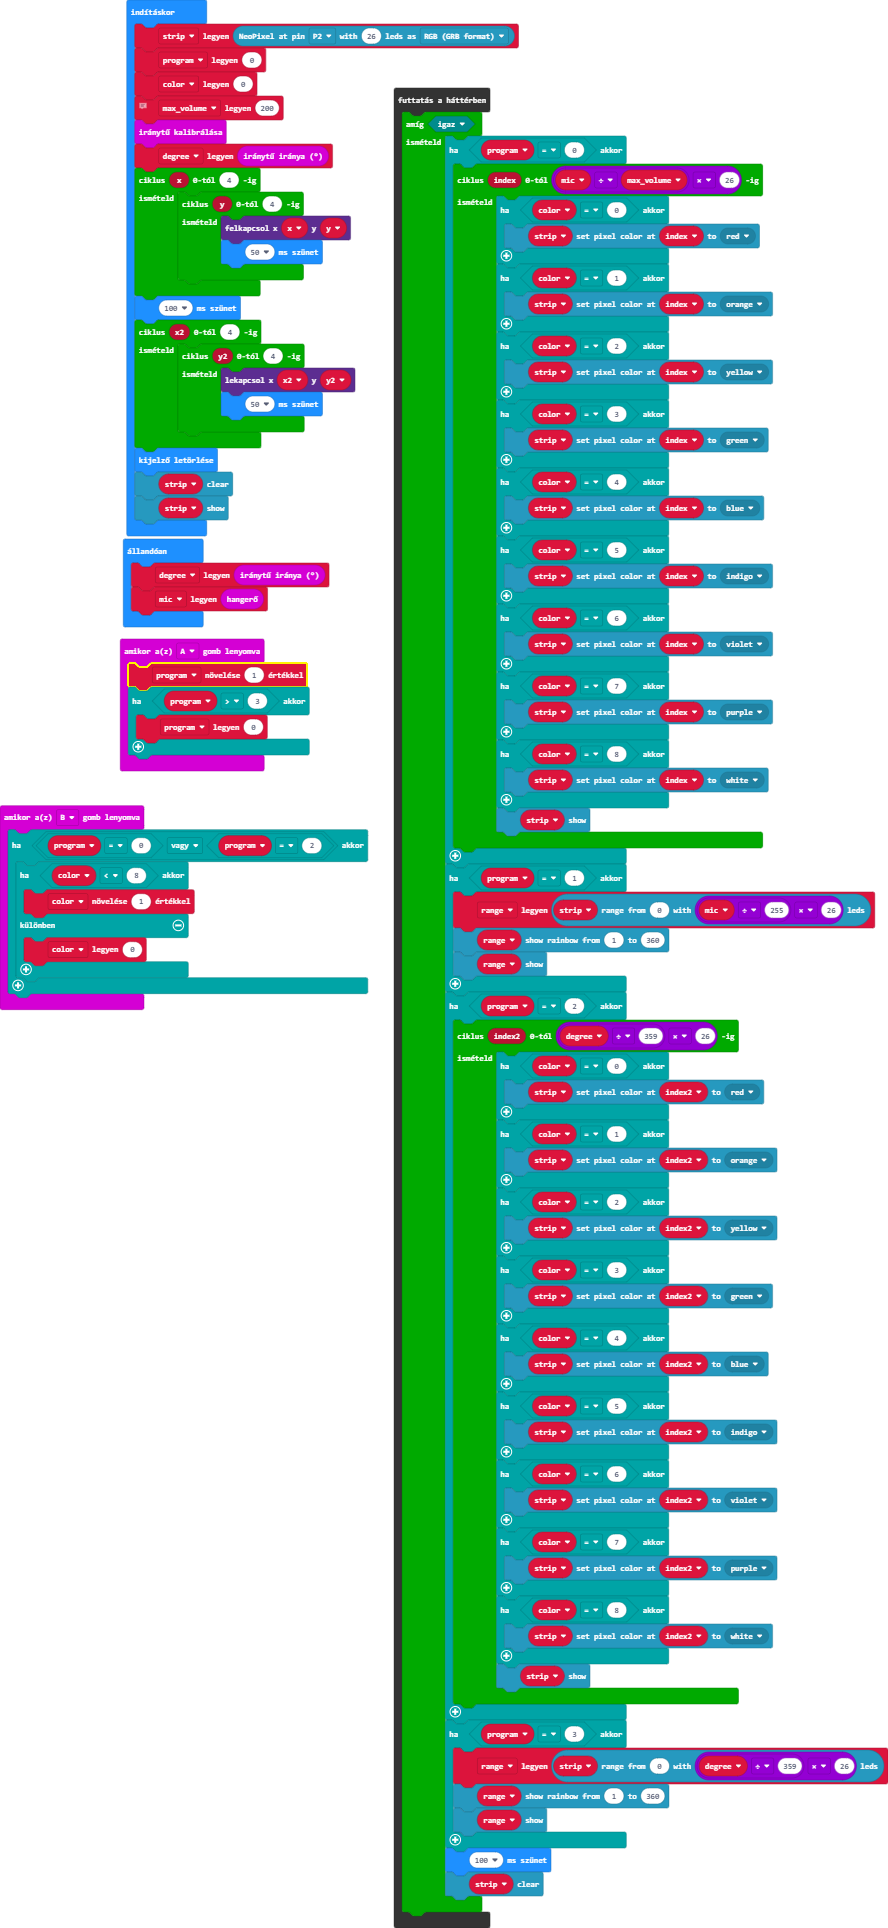
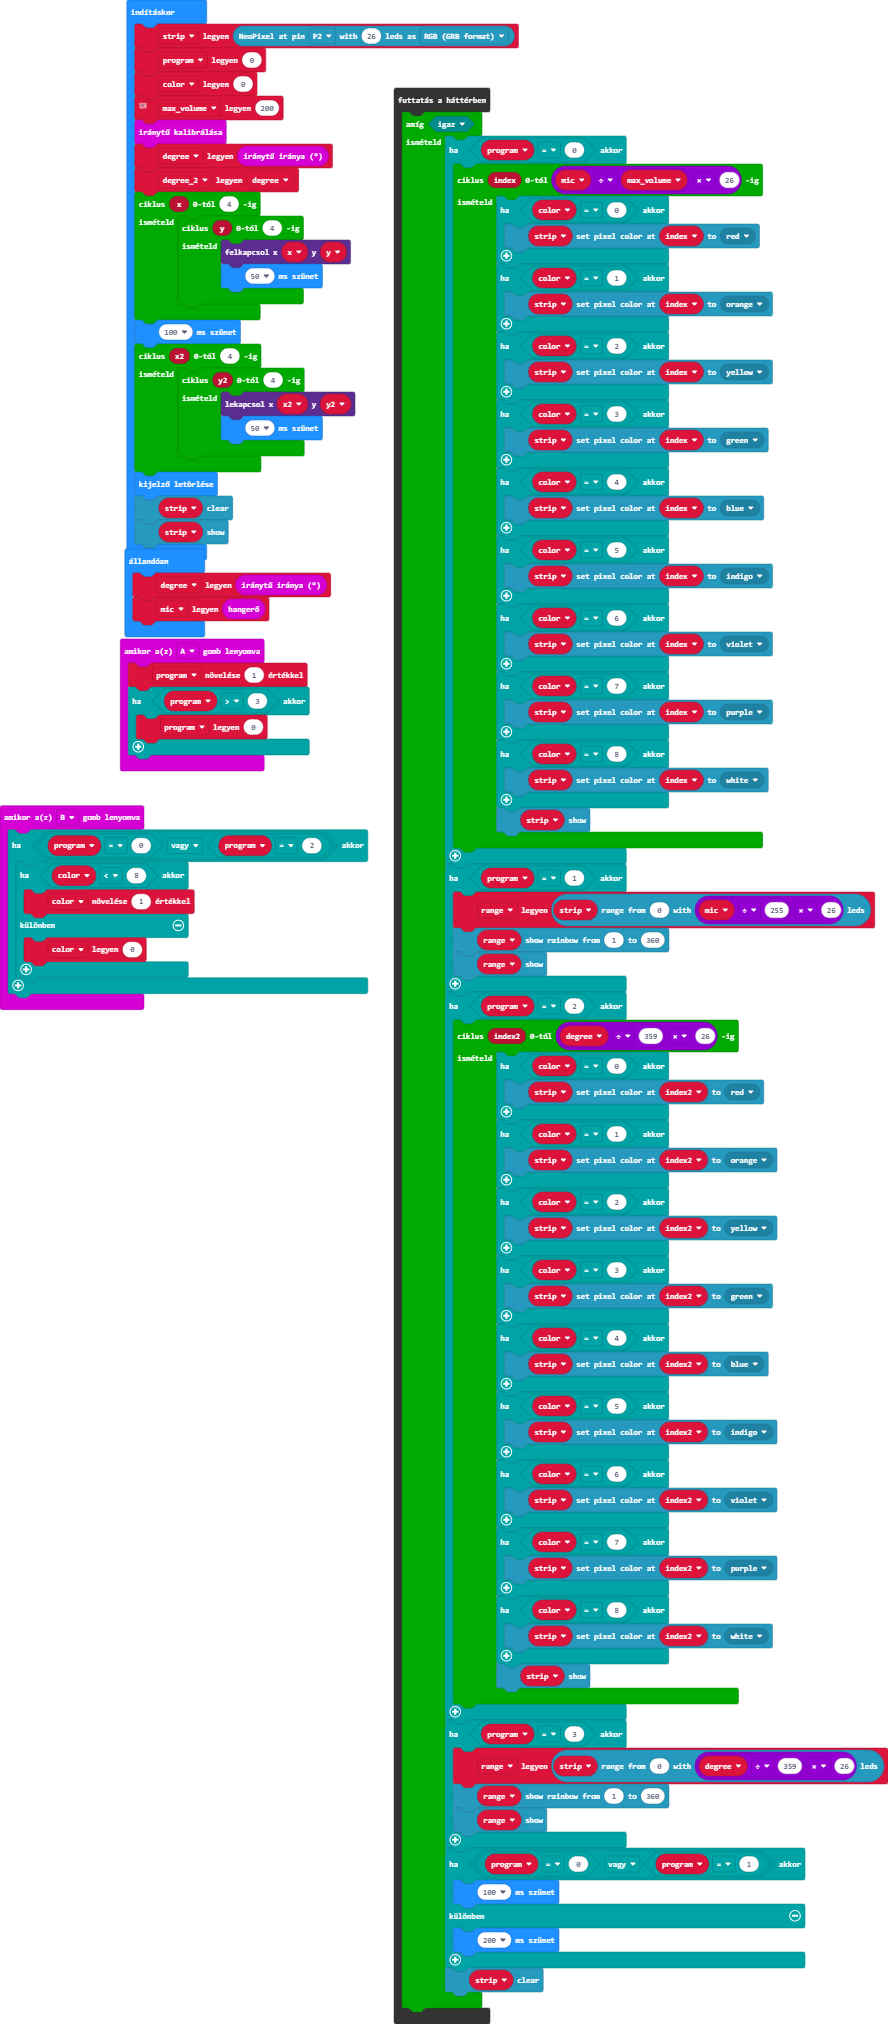
main.blocks, main.ts frissítése

Changed region(s): [[0.0, 0.0, 1.0, 0.9959]]

diff --git a/main.ts b/main.ts
@@ -24,6 +24,7 @@ color = 0
 let max_volume = 200
 input.calibrateCompass()
 let degree = input.compassHeading()
+let degree_2 = degree
 for (let x = 0; x <= 4; x++) {
     for (let y = 0; y <= 4; y++) {
         led.plot(x, y)
@@ -120,7 +121,11 @@ control.inBackground(function () {
             range.showRainbow(1, 360)
             range.show()
         }
-        basic.pause(100)
+        if (program == 0 || program == 1) {
+            basic.pause(100)
+        } else {
+            basic.pause(200)
+        }
         strip.clear()
     }
 })
